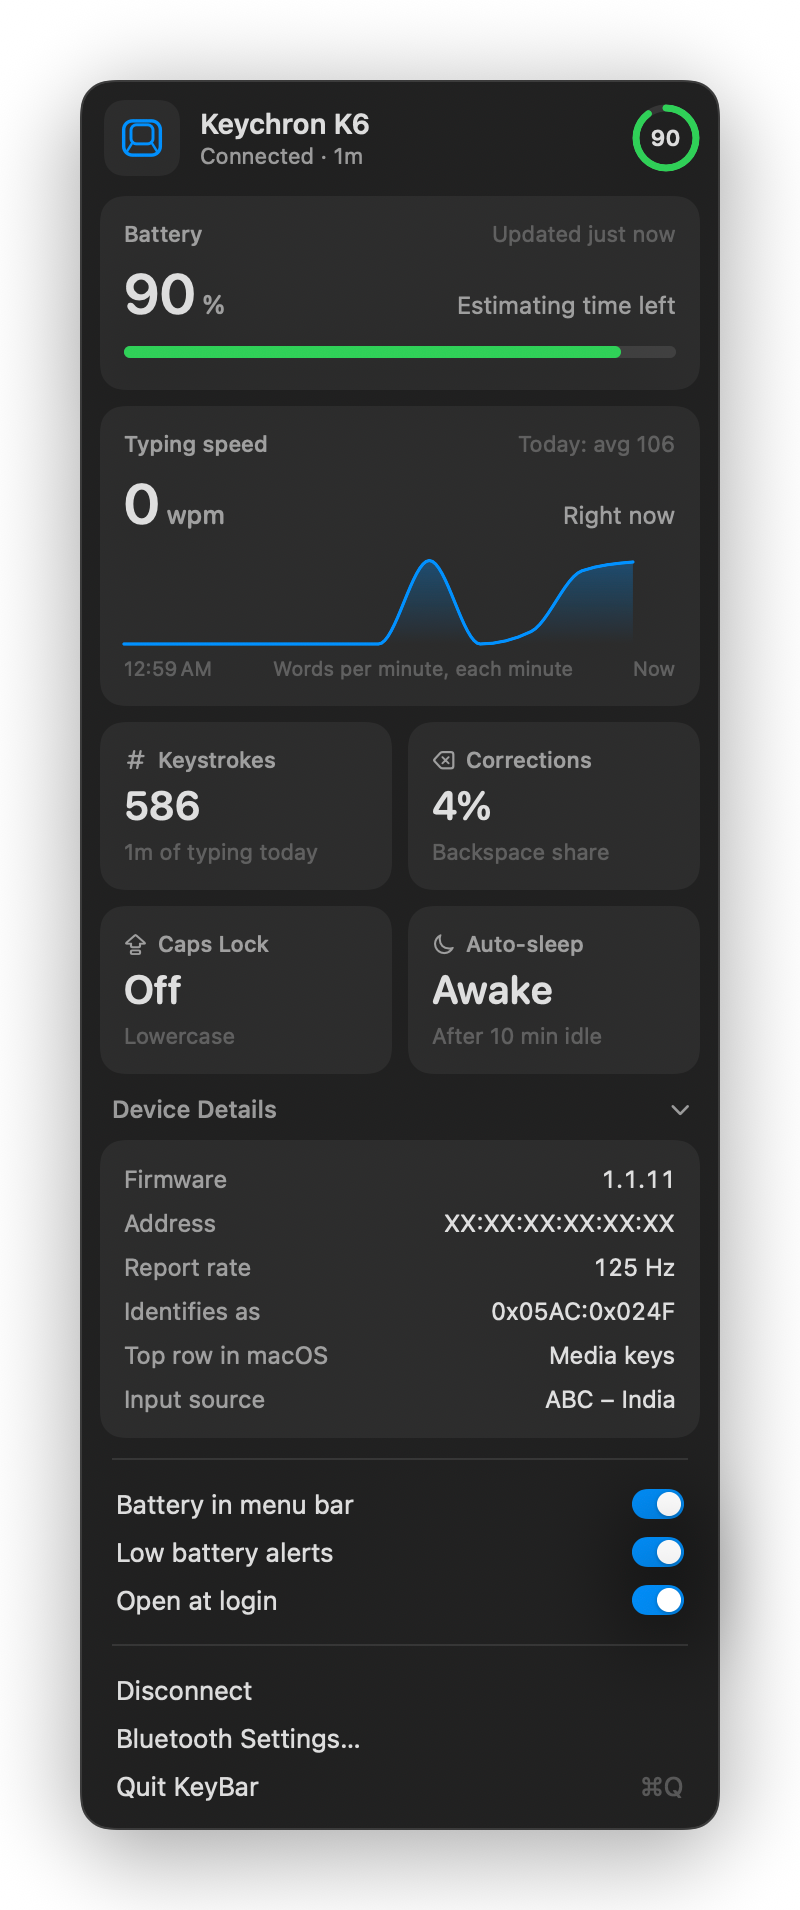
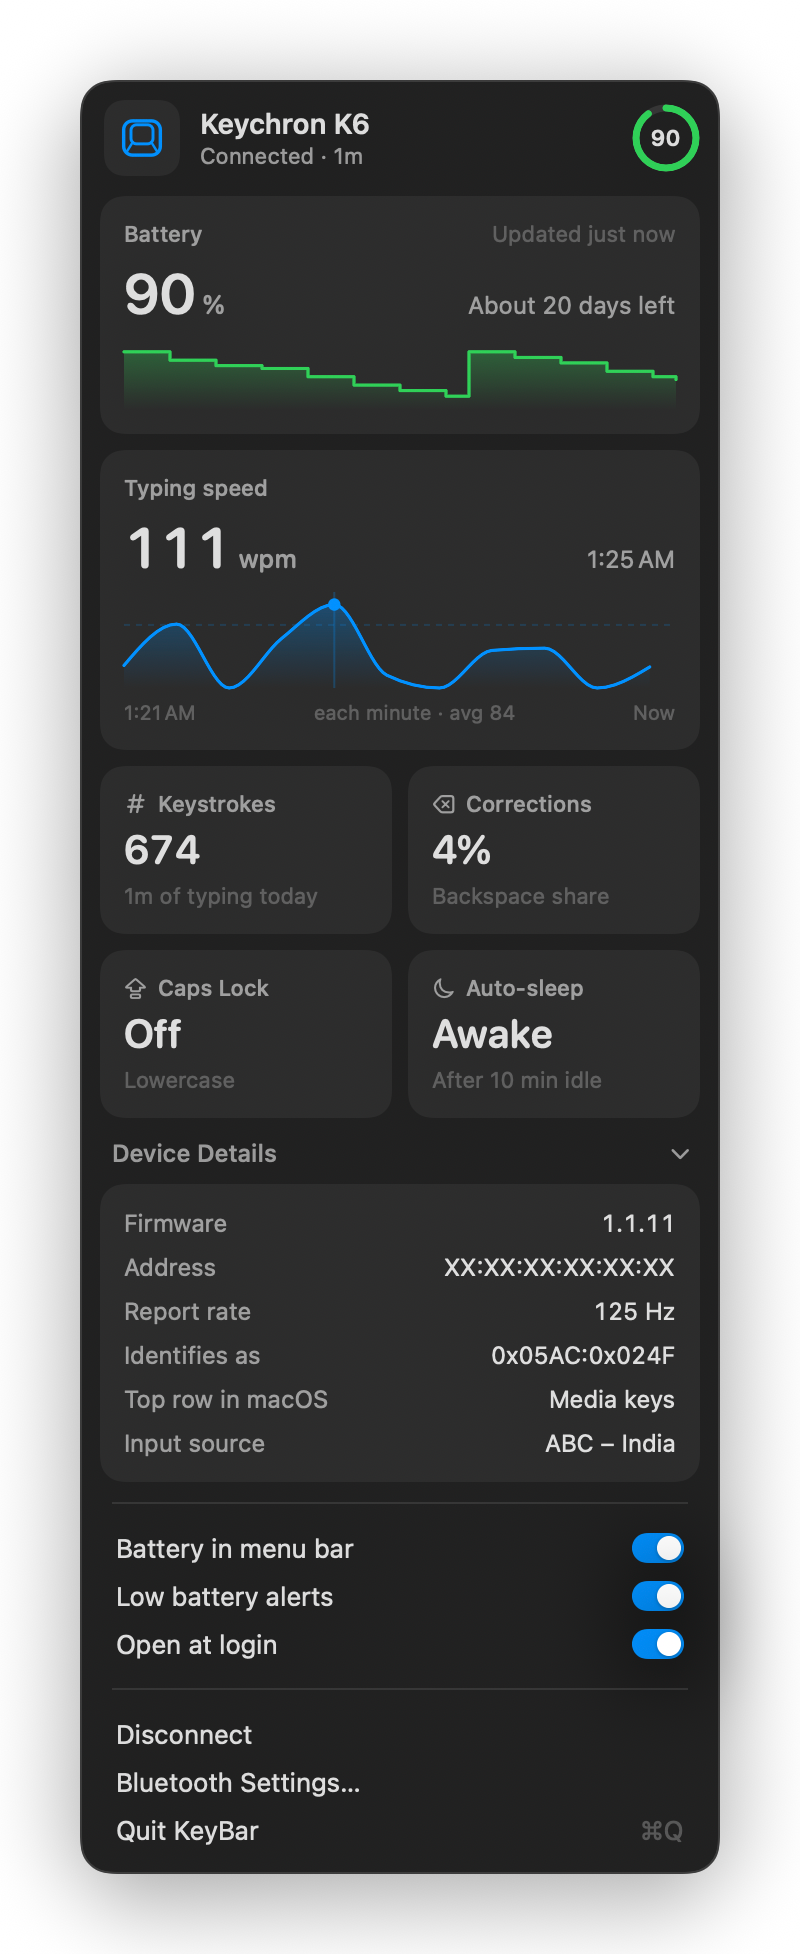
Battery chart zooms to its data and only shows once the level moves; README screenshot refreshed

diff --git a/Sources/KeyBar/PopoverView.swift b/Sources/KeyBar/PopoverView.swift
@@ -7,11 +7,13 @@ struct PopoverView: View {
     @ViewState private var hoveredWPM: SparkChart.Point?
     @ViewState private var chartRange = ChartRange.today
 
-    init(monitor: KeyboardMonitor, redactsAddress: Bool = false, showsDetails: Bool = false, chartRange: ChartRange = .today) {
+    init(monitor: KeyboardMonitor, redactsAddress: Bool = false, showsDetails: Bool = false, chartRange: ChartRange = .today,
+         hoveredWPM: SparkChart.Point? = nil) {
         self.monitor = monitor
         self.redactsAddress = redactsAddress
         _showsDetails = ViewState(initialValue: showsDetails)
         _chartRange = ViewState(initialValue: chartRange)
+        _hoveredWPM = ViewState(initialValue: hoveredWPM)
     }
 
     var body: some View {
@@ -100,9 +102,10 @@ struct PopoverView: View {
                 }
                 let start = monitor.now.addingTimeInterval(-7 * 86_400)
                 let week = monitor.history.samples(since: start).map { SparkChart.Point(x: $0.date, y: Double($0.percent)) }
-                if week.count >= 2 {
+                // A chart only says something once the level has moved; until then the bar is clearer.
+                if Set(week.map(\.y)).count >= 2 {
                     SparkChart(points: week + [SparkChart.Point(x: monitor.now, y: week.last!.y)],
-                               color: Palette.battery(monitor.battery), yDomain: 0...100,
+                               color: Palette.battery(monitor.battery), yDomain: Self.zoomedDomain(week.map(\.y)),
                                xDomain: week.first!.x...monitor.now, interpolation: .stepEnd)
                         .frame(height: 36)
                 } else {
@@ -124,7 +127,7 @@ struct PopoverView: View {
         guard monitor.battery != nil else { return monitor.hasAccess ? "Waiting for keyboard" : "Needs permission" }
         switch monitor.trend {
         case .charging: return "Charging"
-        case .discharging(let remaining): return "About \(Format.duration(remaining)) left"
+        case .discharging(let remaining): return "About \(Format.longDuration(remaining)) left"
         case .unknown: return "Estimating time left"
         }
     }

diff --git a/Sources/KeyBar/Snapshot.swift b/Sources/KeyBar/Snapshot.swift
@@ -9,7 +9,11 @@ enum Snapshot {
         let monitor = KeyboardMonitor()
         DispatchQueue.main.asyncAfter(deadline: .now() + settleDelay) {
             monitor.popoverDidAppear()
-            let panel = PopoverView(monitor: monitor, redactsAddress: true, showsDetails: true, chartRange: chartRange)
+            // Show the chart hovered on the fastest minute, the way someone exploring it would.
+            let fastest = monitor.snapshot.timeline?.points.max { $0.wpm < $1.wpm }
+                .map { SparkChart.Point(x: $0.start, y: $0.wpm.rounded()) }
+            let panel = PopoverView(monitor: monitor, redactsAddress: true, showsDetails: true, chartRange: chartRange,
+                                    hoveredWPM: chartRange == .today ? fastest : nil)
                 .background(Color(white: 0.13), in: RoundedRectangle(cornerRadius: 16, style: .continuous))
                 .overlay(RoundedRectangle(cornerRadius: 16, style: .continuous).strokeBorder(.white.opacity(0.12)))
                 .shadow(color: .black.opacity(0.35), radius: 24, y: 10)

diff --git a/Sources/KeyBar/Components.swift b/Sources/KeyBar/Components.swift
@@ -14,6 +14,14 @@ enum Format {
         return formatter.string(from: max(interval, 60)) ?? ""
     }
 
+    static func longDuration(_ interval: TimeInterval) -> String {
+        let formatter = DateComponentsFormatter()
+        formatter.unitsStyle = .full
+        formatter.maximumUnitCount = 1
+        formatter.allowedUnits = interval >= 86_400 ? [.day] : [.hour]
+        return formatter.string(from: interval) ?? ""
+    }
+
     static func countdown(_ interval: TimeInterval) -> String {
         let seconds = Int(interval)
         return String(format: "%d:%02d", seconds / 60, seconds % 60)
